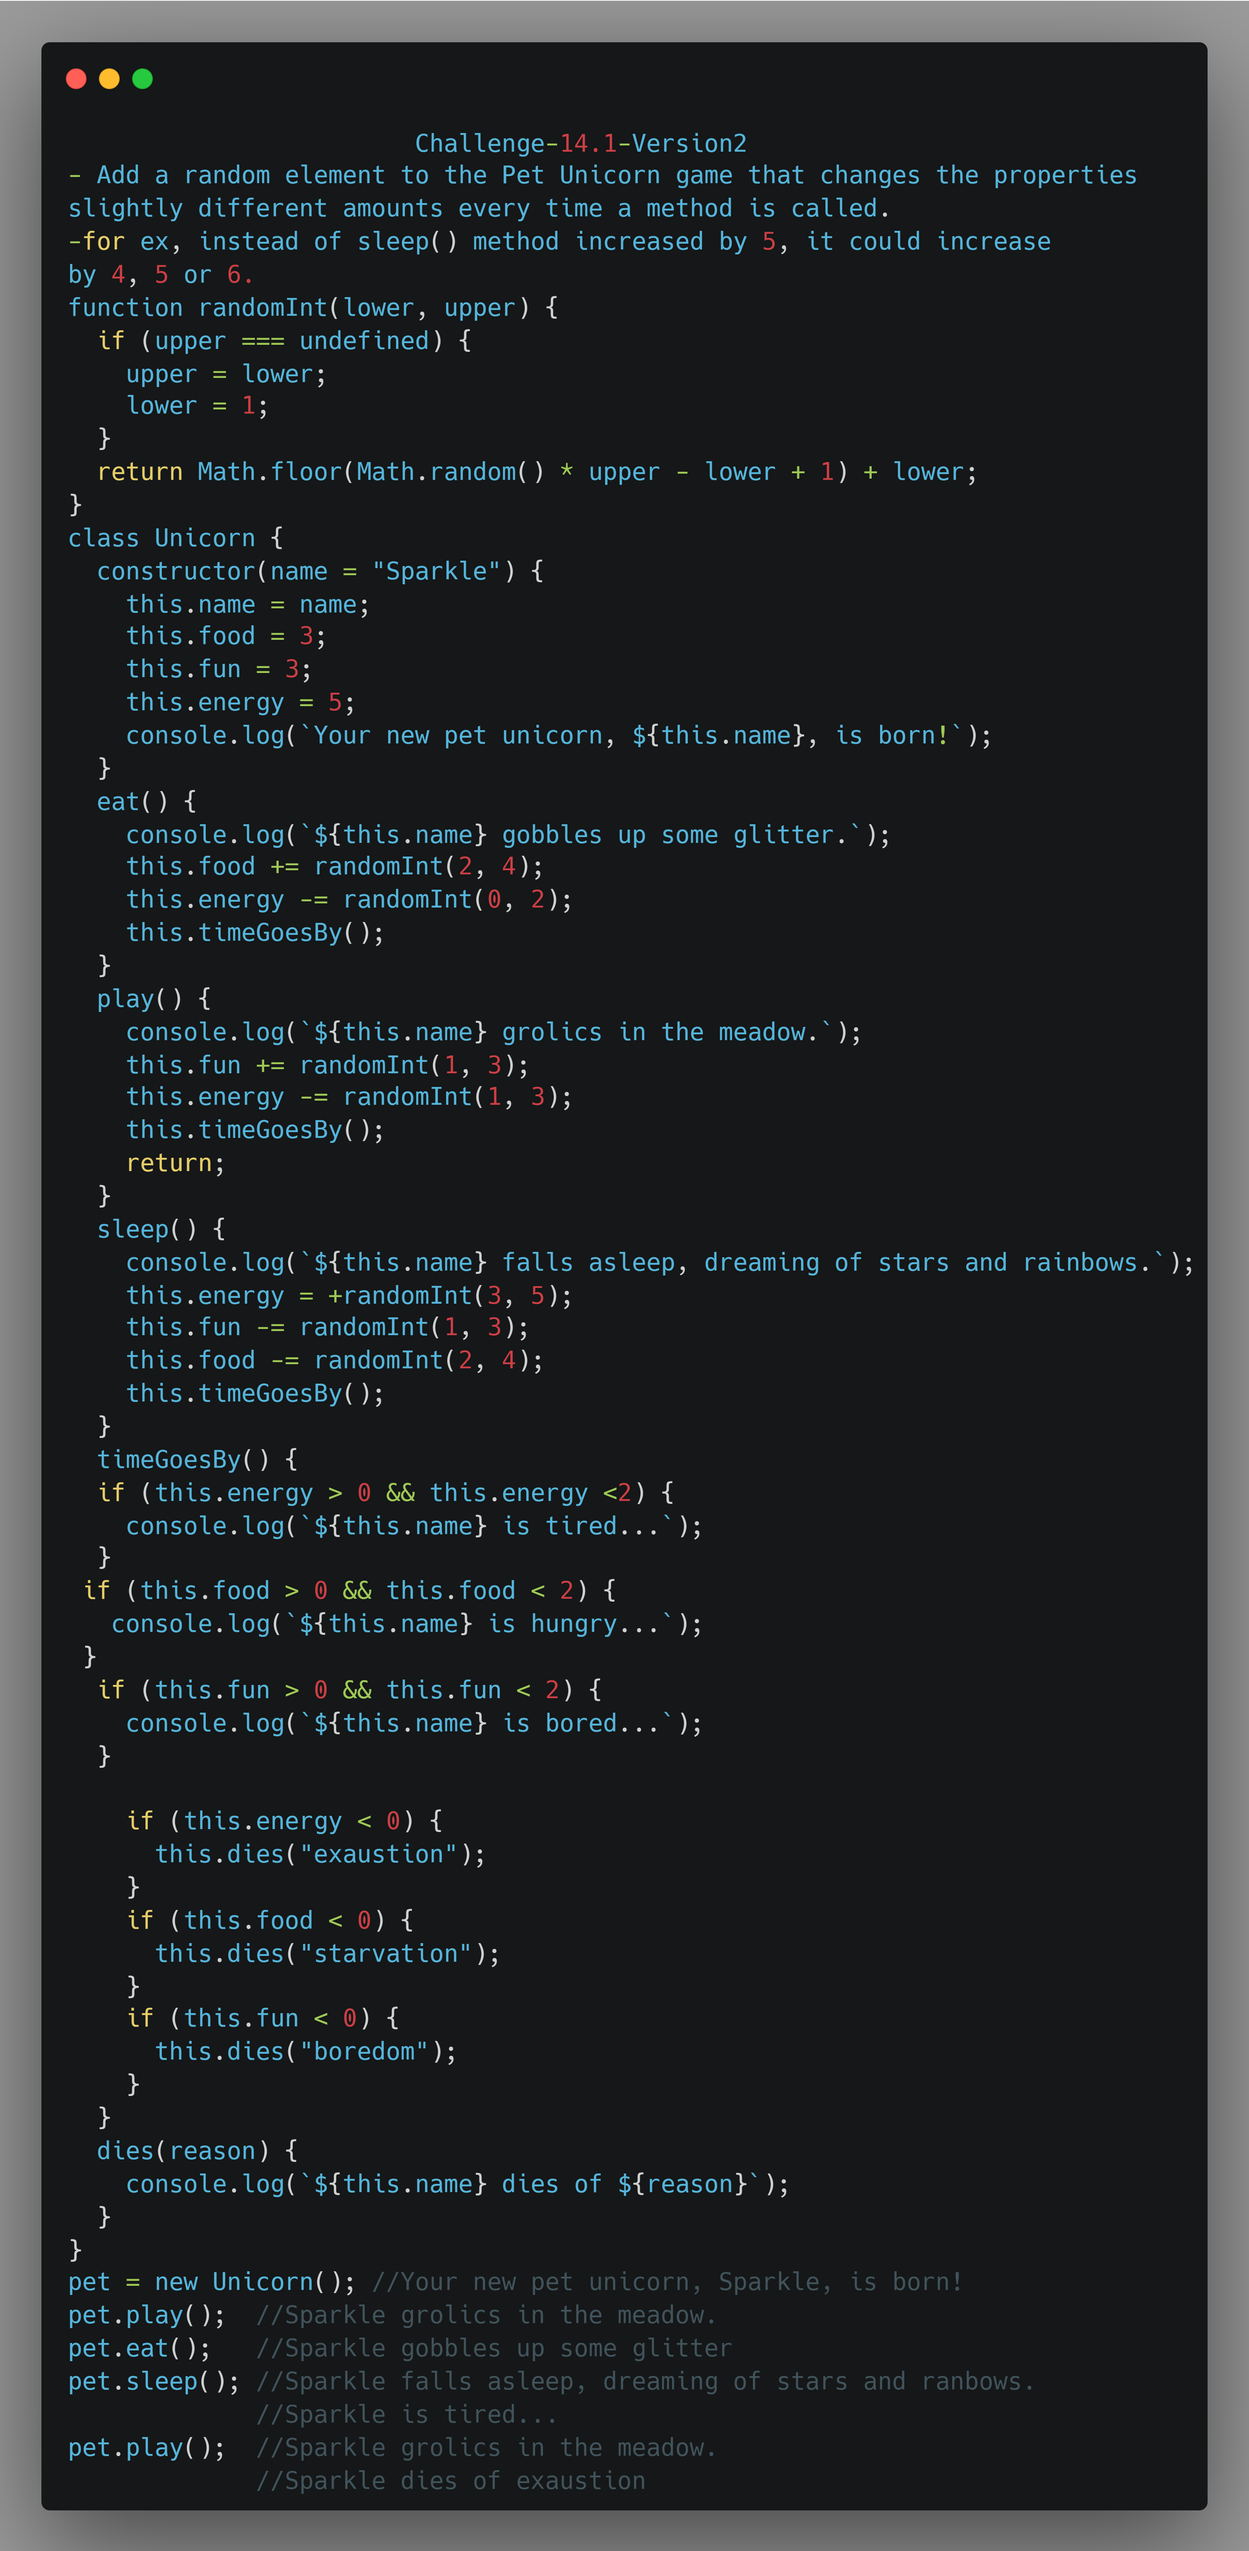
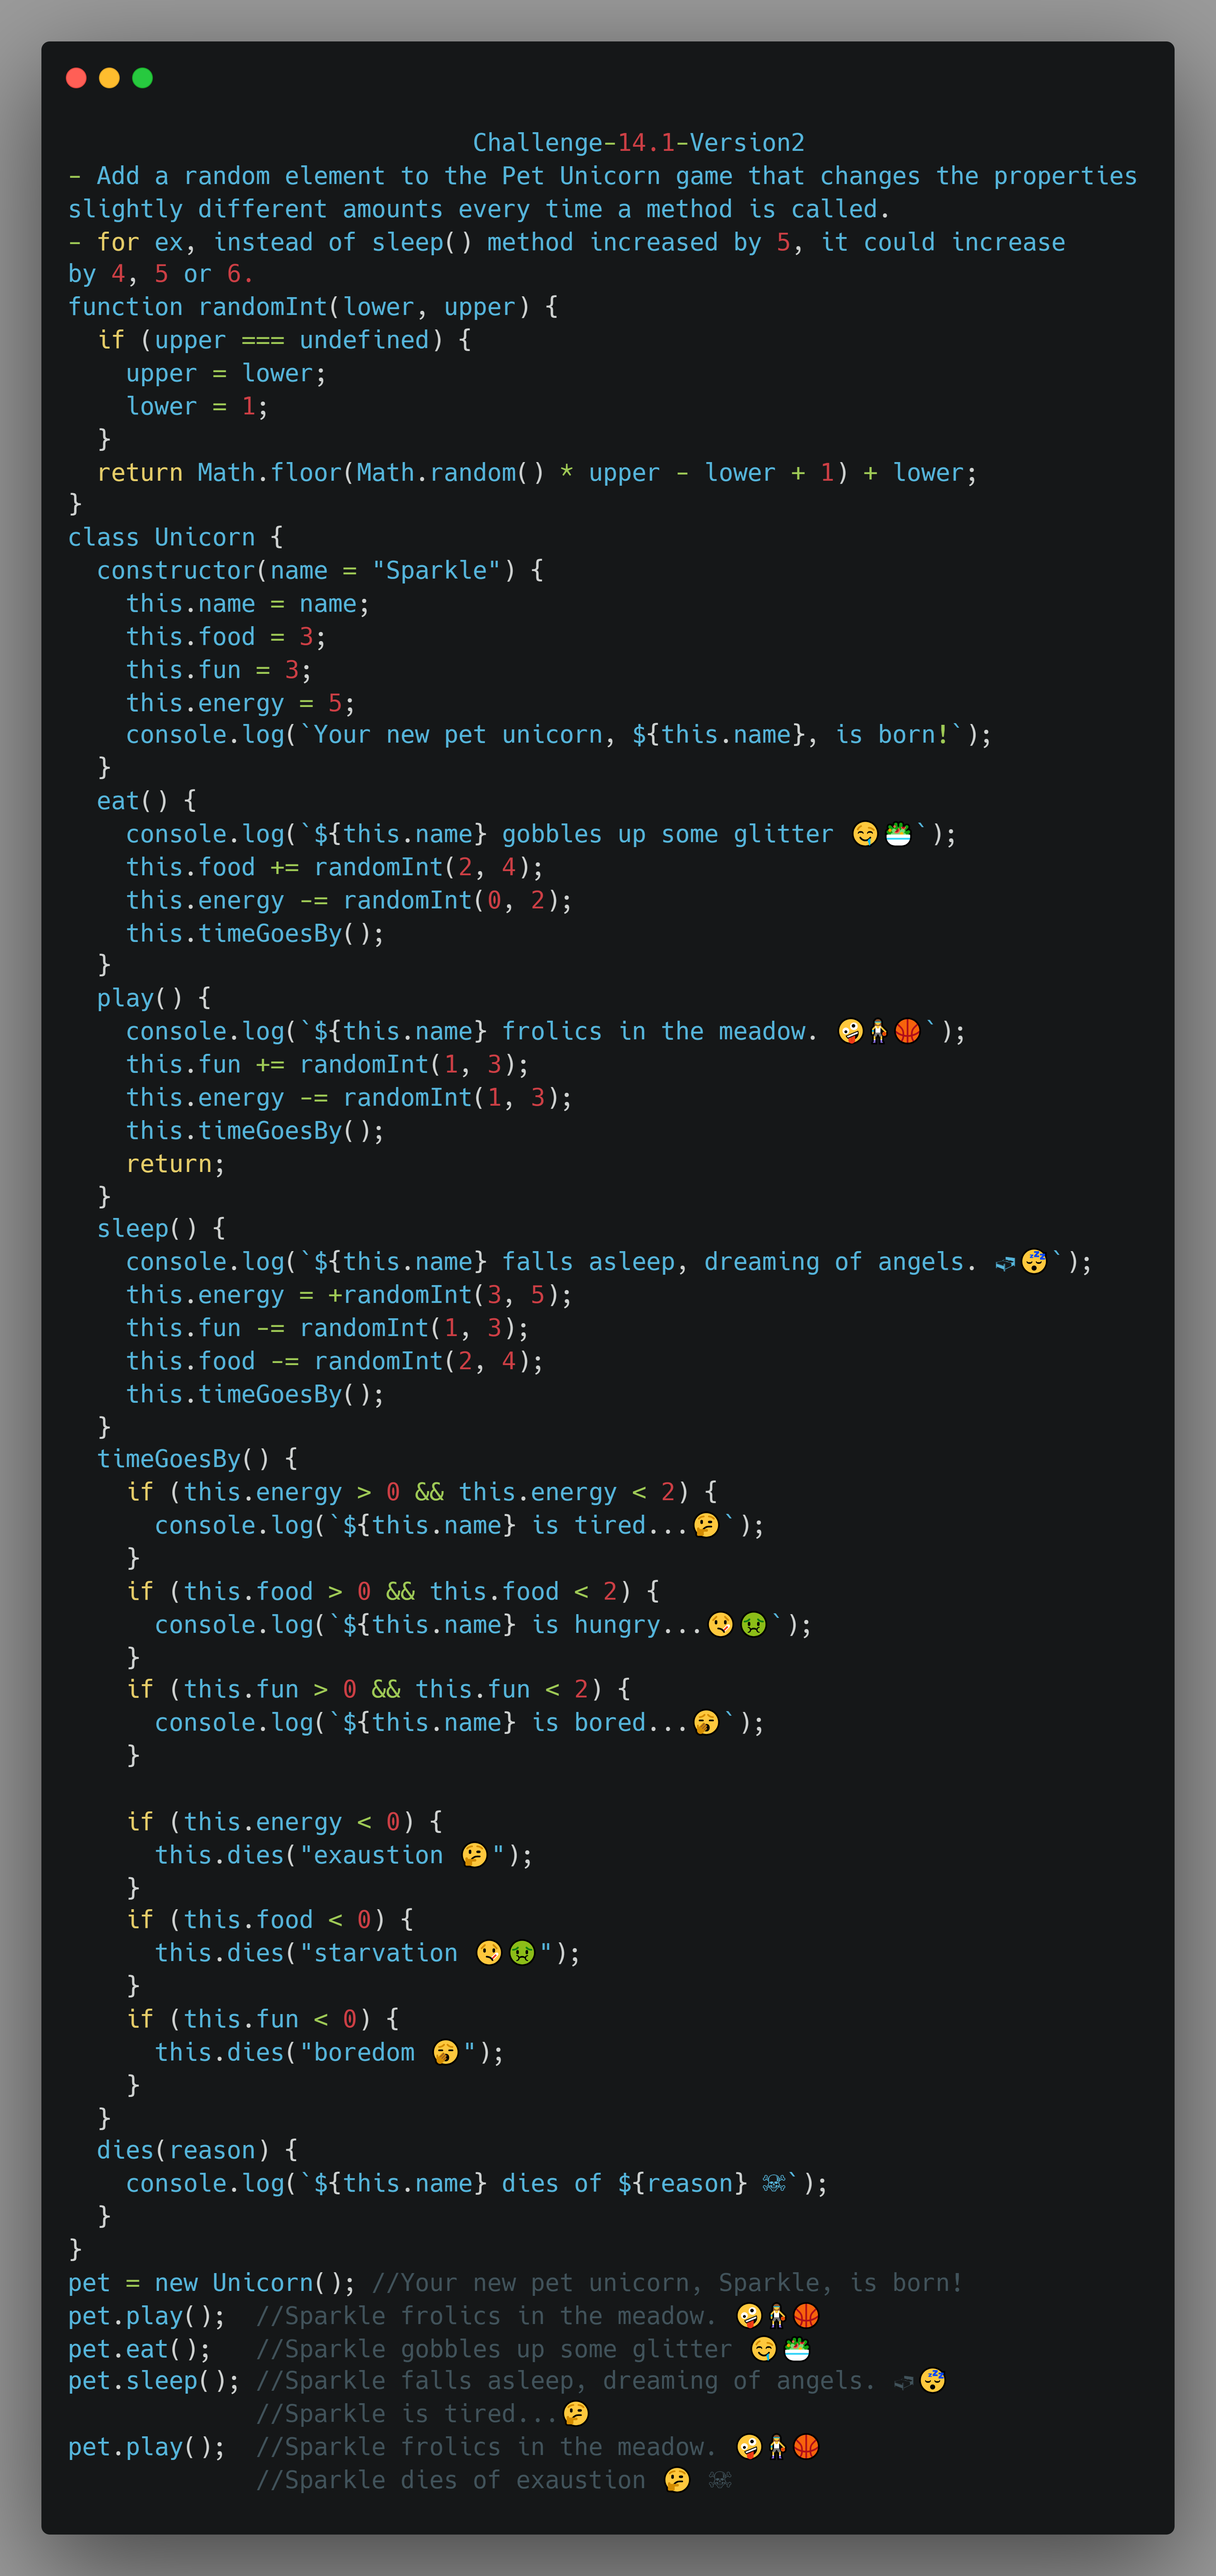
modified images to add emoticons and correct mistakes

diff --git a/index.js b/index.js
@@ -4220,54 +4220,54 @@ class Unicorn {
     console.log(`Your new pet unicorn, ${this.name}, is born!`);
   }
   eat() {
-    console.log(`${this.name} gobbles up some glitter.`);
+    console.log(`${this.name} gobbles up some glitter 🤤🥗`);
     this.food += randomInt(2, 4);
     this.energy -= randomInt(0, 2);
     this.timeGoesBy();
   }
   play() {
-    console.log(`${this.name} grolics in the meadow.`);
+    console.log(`${this.name} frolics in the meadow. 🤪⛹♀🏀`);
     this.fun += randomInt(1, 3);
     this.energy -= randomInt(1, 3);
     this.timeGoesBy();
     return;
   }
   sleep() {
-    console.log(`${this.name} falls asleep, dreaming of stars and rainbows.`);
+    console.log(`${this.name} falls asleep, dreaming of angels. 🛏😴`);
     this.energy = +randomInt(3, 5);
     this.fun -= randomInt(1, 3);
     this.food -= randomInt(2, 4);
     this.timeGoesBy();
   }
   timeGoesBy() {
-  if (this.energy > 0 && this.energy <2) {
-    console.log(`${this.name} is tired...`);
-  }
- if (this.food > 0 && this.food < 2) {
-   console.log(`${this.name} is hungry...`);
- }
-  if (this.fun > 0 && this.fun < 2) {
-    console.log(`${this.name} is bored...`);
-  }
+    if (this.energy > 0 && this.energy < 2) {
+      console.log(`${this.name} is tired...🤔`);
+    }
+    if (this.food > 0 && this.food < 2) {
+      console.log(`${this.name} is hungry...🤒🤢`);
+    }
+    if (this.fun > 0 && this.fun < 2) {
+      console.log(`${this.name} is bored...🥱`);
+    }
 
     if (this.energy < 0) {
-      this.dies("exaustion");
+      this.dies("exaustion 🤔");
     }
     if (this.food < 0) {
-      this.dies("starvation");
+      this.dies("starvation 🤒🤢");
     }
     if (this.fun < 0) {
-      this.dies("boredom");
+      this.dies("boredom 🥱");
     }
   }
   dies(reason) {
-    console.log(`${this.name} dies of ${reason}`);
+    console.log(`${this.name} dies of ${reason} ☠`);
   }
 }
 pet = new Unicorn(); //Your new pet unicorn, Sparkle, is born!
-pet.play();  //Sparkle grolics in the meadow.
-pet.eat();   //Sparkle gobbles up some glitter
-pet.sleep(); //Sparkle falls asleep, dreaming of stars and ranbows.
-             //Sparkle is tired...
-pet.play();  //Sparkle grolics in the meadow.
-             //Sparkle dies of exaustion
+pet.play(); //Sparkle frolics in the meadow. 🤪⛹♀🏀
+pet.eat(); //Sparkle gobbles up some glitter 🤤🥗
+pet.sleep(); //Sparkle falls asleep, dreaming of angels. 🛏😴
+//Sparkle is tired...🤔
+pet.play(); //Sparkle frolics in the meadow. 🤪⛹♀🏀
+//Sparkle dies of exaustion 🤔 ☠
